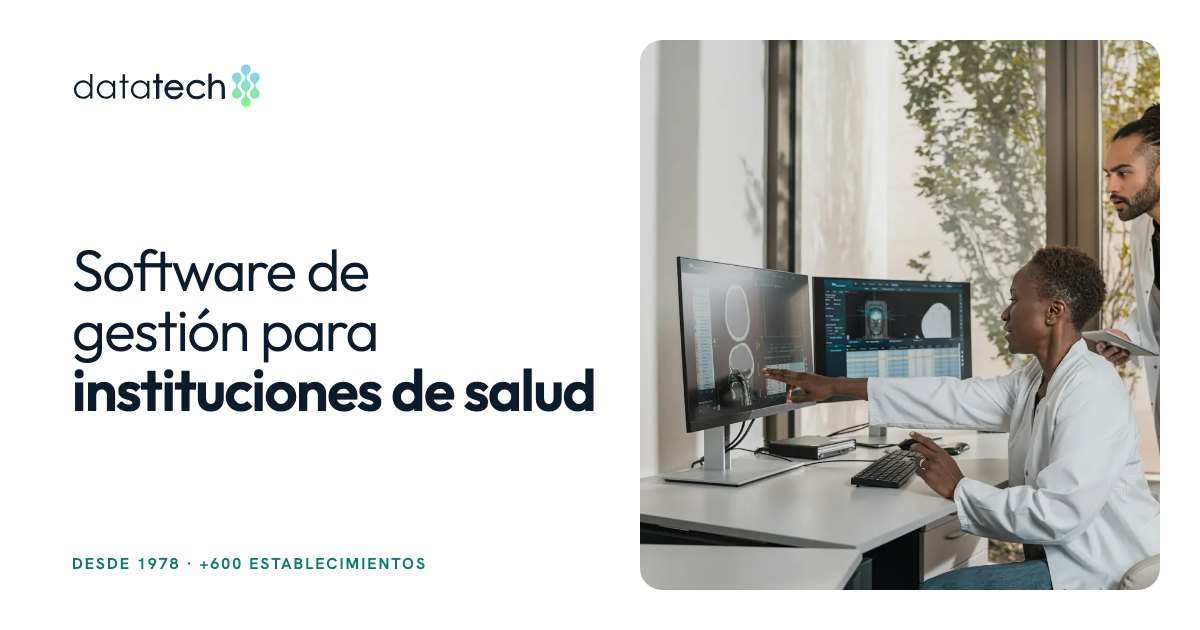
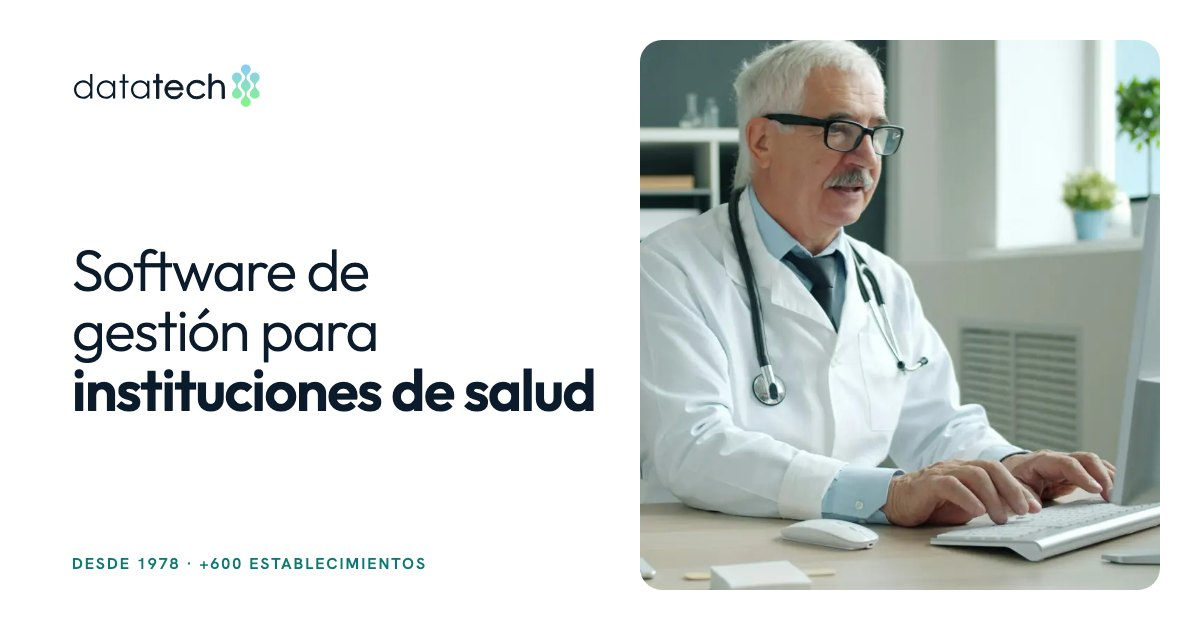
Recast the hero photos with locally typical professionals
Home and Servicios heroes (and the link-preview image) now use photos of
clinicians who read as typical of Argentine healthcare staff, chosen from
97 free Unsplash candidates. Crops are set per photo so faces and screens
stay in frame.

diff --git a/public/servicios/index.html b/public/servicios/index.html
@@ -23,7 +23,7 @@
 <link rel="apple-touch-icon" href="/apple-touch-icon.png">
 <link rel="preload" href="/assets/fonts/Outfit-300-600.woff2" as="font" type="font/woff2" crossorigin>
 <link rel="preload" href="/assets/fonts/HankenGrotesk-400-700.woff2" as="font" type="font/woff2" crossorigin>
-<link rel="stylesheet" href="/assets/site.css?v=c10173d4">
+<link rel="stylesheet" href="/assets/site.css?v=b2e7dfb6">
 <script src="/assets/site.js?v=96e0ce54" defer></script>
 </head>
 <body>
@@ -69,7 +69,7 @@
         <p class="lead">Datatech brinda a sus usuarios servicios que se contratan en su totalidad o en las combinaciones que se requieran, según las necesidades de cada cliente.</p>
         <div class="actions"><a class="btn" href="/contacto/">Consultar por un servicio</a></div>
       </div>
-      <div class="page-hero-media"><img src="/assets/img/servicios-1400.webp" srcset="/assets/img/servicios-800.webp 800w, /assets/img/servicios-1400.webp 1400w, /assets/img/servicios-2000.webp 2000w" sizes="(min-width: 900px) 46vw, 100vw" width="1400" height="933" alt="Profesional de la salud trabaja frente a dos monitores con estudios e información clínica" fetchpriority="high"></div>
+      <div class="page-hero-media"><img class="focus-75" src="/assets/img/servicios-1400.webp" srcset="/assets/img/servicios-800.webp 800w, /assets/img/servicios-1400.webp 1400w, /assets/img/servicios-2000.webp 2000w" sizes="(min-width: 900px) 46vw, 100vw" width="1400" height="788" alt="Dos médicos revisan información en una tableta" fetchpriority="high"></div>
     </div>
   </div>
 </section>

diff --git a/public/index.html b/public/index.html
@@ -23,7 +23,7 @@
 <link rel="apple-touch-icon" href="/apple-touch-icon.png">
 <link rel="preload" href="/assets/fonts/Outfit-300-600.woff2" as="font" type="font/woff2" crossorigin>
 <link rel="preload" href="/assets/fonts/HankenGrotesk-400-700.woff2" as="font" type="font/woff2" crossorigin>
-<link rel="stylesheet" href="/assets/site.css?v=c10173d4">
+<link rel="stylesheet" href="/assets/site.css?v=b2e7dfb6">
 <script src="/assets/site.js?v=96e0ce54" defer></script>
 <script type="application/ld+json">
 {
@@ -92,7 +92,7 @@
       </div>
     </div>
     <div class="hero-media">
-      <img src="/assets/img/inicio-equipo-1400.webp" srcset="/assets/img/inicio-equipo-800.webp 800w, /assets/img/inicio-equipo-1400.webp 1400w, /assets/img/inicio-equipo-2000.webp 2000w" sizes="(min-width: 900px) 46vw, 100vw" width="1400" height="933" alt="Dos profesionales de la salud revisan estudios por imágenes en monitores" fetchpriority="high">
+      <img class="focus-80" src="/assets/img/inicio-equipo-1400.webp" srcset="/assets/img/inicio-equipo-800.webp 800w, /assets/img/inicio-equipo-1400.webp 1400w, /assets/img/inicio-equipo-2000.webp 2000w" sizes="(min-width: 900px) 46vw, 100vw" width="1400" height="788" alt="Médico trabaja en la computadora de su consultorio" fetchpriority="high">
       <div class="modules">
         <h2>Módulos integrados</h2>
         <ul class="chips">

diff --git a/src/pages/servicios.html b/src/pages/servicios.html
@@ -9,7 +9,7 @@
         <p class="lead">Datatech brinda a sus usuarios servicios que se contratan en su totalidad o en las combinaciones que se requieran, según las necesidades de cada cliente.</p>
         <div class="actions"><a class="btn" href="/contacto/">Consultar por un servicio</a></div>
       </div>
-      <div class="page-hero-media"><img src="/assets/img/servicios-1400.webp" srcset="/assets/img/servicios-800.webp 800w, /assets/img/servicios-1400.webp 1400w, /assets/img/servicios-2000.webp 2000w" sizes="(min-width: 900px) 46vw, 100vw" width="1400" height="933" alt="Profesional de la salud trabaja frente a dos monitores con estudios e información clínica" fetchpriority="high"></div>
+      <div class="page-hero-media"><img class="focus-75" src="/assets/img/servicios-1400.webp" srcset="/assets/img/servicios-800.webp 800w, /assets/img/servicios-1400.webp 1400w, /assets/img/servicios-2000.webp 2000w" sizes="(min-width: 900px) 46vw, 100vw" width="1400" height="788" alt="Dos médicos revisan información en una tableta" fetchpriority="high"></div>
     </div>
   </div>
 </section>

diff --git a/src/pages/index.html b/src/pages/index.html
@@ -11,7 +11,7 @@
       </div>
     </div>
     <div class="hero-media">
-      <img src="/assets/img/inicio-equipo-1400.webp" srcset="/assets/img/inicio-equipo-800.webp 800w, /assets/img/inicio-equipo-1400.webp 1400w, /assets/img/inicio-equipo-2000.webp 2000w" sizes="(min-width: 900px) 46vw, 100vw" width="1400" height="933" alt="Dos profesionales de la salud revisan estudios por imágenes en monitores" fetchpriority="high">
+      <img class="focus-80" src="/assets/img/inicio-equipo-1400.webp" srcset="/assets/img/inicio-equipo-800.webp 800w, /assets/img/inicio-equipo-1400.webp 1400w, /assets/img/inicio-equipo-2000.webp 2000w" sizes="(min-width: 900px) 46vw, 100vw" width="1400" height="788" alt="Médico trabaja en la computadora de su consultorio" fetchpriority="high">
       <div class="modules">
         <h2>Módulos integrados</h2>
         <ul class="chips">

diff --git a/public/404.html b/public/404.html
@@ -23,7 +23,7 @@
 <link rel="apple-touch-icon" href="/apple-touch-icon.png">
 <link rel="preload" href="/assets/fonts/Outfit-300-600.woff2" as="font" type="font/woff2" crossorigin>
 <link rel="preload" href="/assets/fonts/HankenGrotesk-400-700.woff2" as="font" type="font/woff2" crossorigin>
-<link rel="stylesheet" href="/assets/site.css?v=c10173d4">
+<link rel="stylesheet" href="/assets/site.css?v=b2e7dfb6">
 <script src="/assets/site.js?v=96e0ce54" defer></script>
 </head>
 <body>

diff --git a/public/calidad/index.html b/public/calidad/index.html
@@ -23,7 +23,7 @@
 <link rel="apple-touch-icon" href="/apple-touch-icon.png">
 <link rel="preload" href="/assets/fonts/Outfit-300-600.woff2" as="font" type="font/woff2" crossorigin>
 <link rel="preload" href="/assets/fonts/HankenGrotesk-400-700.woff2" as="font" type="font/woff2" crossorigin>
-<link rel="stylesheet" href="/assets/site.css?v=c10173d4">
+<link rel="stylesheet" href="/assets/site.css?v=b2e7dfb6">
 <script src="/assets/site.js?v=96e0ce54" defer></script>
 </head>
 <body>

diff --git a/public/contacto/index.html b/public/contacto/index.html
@@ -23,7 +23,7 @@
 <link rel="apple-touch-icon" href="/apple-touch-icon.png">
 <link rel="preload" href="/assets/fonts/Outfit-300-600.woff2" as="font" type="font/woff2" crossorigin>
 <link rel="preload" href="/assets/fonts/HankenGrotesk-400-700.woff2" as="font" type="font/woff2" crossorigin>
-<link rel="stylesheet" href="/assets/site.css?v=c10173d4">
+<link rel="stylesheet" href="/assets/site.css?v=b2e7dfb6">
 <script src="/assets/site.js?v=96e0ce54" defer></script>
 </head>
 <body>

diff --git a/public/empresa/index.html b/public/empresa/index.html
@@ -23,7 +23,7 @@
 <link rel="apple-touch-icon" href="/apple-touch-icon.png">
 <link rel="preload" href="/assets/fonts/Outfit-300-600.woff2" as="font" type="font/woff2" crossorigin>
 <link rel="preload" href="/assets/fonts/HankenGrotesk-400-700.woff2" as="font" type="font/woff2" crossorigin>
-<link rel="stylesheet" href="/assets/site.css?v=c10173d4">
+<link rel="stylesheet" href="/assets/site.css?v=b2e7dfb6">
 <script src="/assets/site.js?v=96e0ce54" defer></script>
 </head>
 <body>

diff --git a/public/soluciones/centros-de-diagnostico/index.html b/public/soluciones/centros-de-diagnostico/index.html
@@ -23,7 +23,7 @@
 <link rel="apple-touch-icon" href="/apple-touch-icon.png">
 <link rel="preload" href="/assets/fonts/Outfit-300-600.woff2" as="font" type="font/woff2" crossorigin>
 <link rel="preload" href="/assets/fonts/HankenGrotesk-400-700.woff2" as="font" type="font/woff2" crossorigin>
-<link rel="stylesheet" href="/assets/site.css?v=c10173d4">
+<link rel="stylesheet" href="/assets/site.css?v=b2e7dfb6">
 <script src="/assets/site.js?v=96e0ce54" defer></script>
 </head>
 <body>

diff --git a/public/soluciones/hospitales-y-sanatorios/index.html b/public/soluciones/hospitales-y-sanatorios/index.html
@@ -23,7 +23,7 @@
 <link rel="apple-touch-icon" href="/apple-touch-icon.png">
 <link rel="preload" href="/assets/fonts/Outfit-300-600.woff2" as="font" type="font/woff2" crossorigin>
 <link rel="preload" href="/assets/fonts/HankenGrotesk-400-700.woff2" as="font" type="font/woff2" crossorigin>
-<link rel="stylesheet" href="/assets/site.css?v=c10173d4">
+<link rel="stylesheet" href="/assets/site.css?v=b2e7dfb6">
 <script src="/assets/site.js?v=96e0ce54" defer></script>
 </head>
 <body>

diff --git a/public/soluciones/index.html b/public/soluciones/index.html
@@ -23,7 +23,7 @@
 <link rel="apple-touch-icon" href="/apple-touch-icon.png">
 <link rel="preload" href="/assets/fonts/Outfit-300-600.woff2" as="font" type="font/woff2" crossorigin>
 <link rel="preload" href="/assets/fonts/HankenGrotesk-400-700.woff2" as="font" type="font/woff2" crossorigin>
-<link rel="stylesheet" href="/assets/site.css?v=c10173d4">
+<link rel="stylesheet" href="/assets/site.css?v=b2e7dfb6">
 <script src="/assets/site.js?v=96e0ce54" defer></script>
 </head>
 <body>

diff --git a/public/soluciones/laboratorios/index.html b/public/soluciones/laboratorios/index.html
@@ -23,7 +23,7 @@
 <link rel="apple-touch-icon" href="/apple-touch-icon.png">
 <link rel="preload" href="/assets/fonts/Outfit-300-600.woff2" as="font" type="font/woff2" crossorigin>
 <link rel="preload" href="/assets/fonts/HankenGrotesk-400-700.woff2" as="font" type="font/woff2" crossorigin>
-<link rel="stylesheet" href="/assets/site.css?v=c10173d4">
+<link rel="stylesheet" href="/assets/site.css?v=b2e7dfb6">
 <script src="/assets/site.js?v=96e0ce54" defer></script>
 </head>
 <body>
